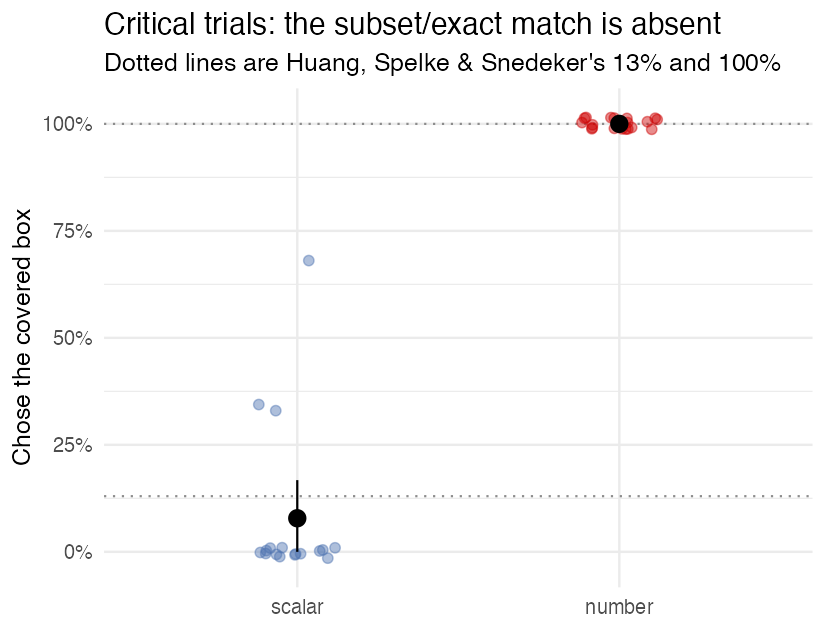
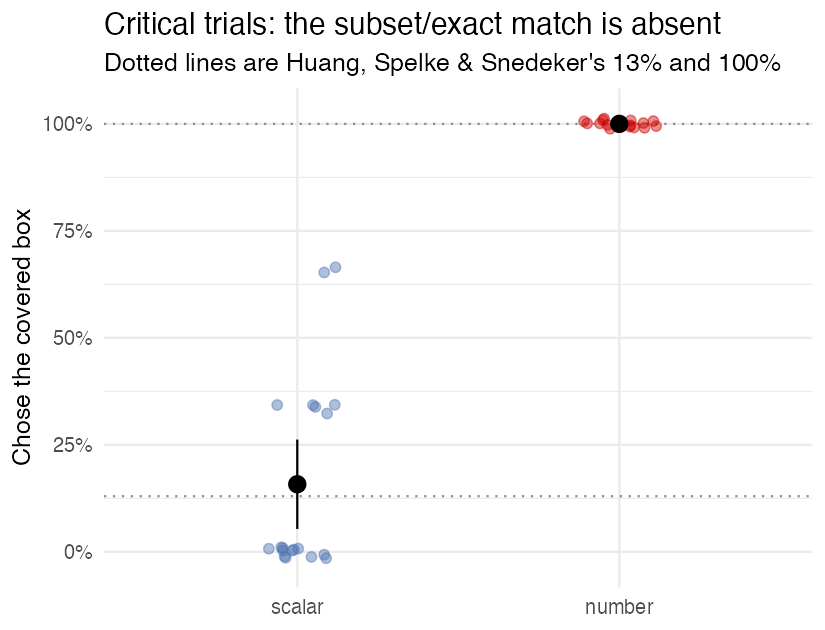
Add a probe trial: is the covered box still a live option?
Elizabeth noticed that a scalar participant who accepts "all" as a match
for "some" never needs the covered box again after familiarization. That is
true of Huang et al.'s design too: in none of their trial types is the
covered box unambiguously correct, since it is always the diagnostic
option. So a low covered-box rate could be extinction rather than
semantics, and nothing in the design distinguishes them.

Our familiarization makes this worse, not better: Huang et al. ran theirs
twice, eight trials with feedback on the first pass, where ours is a single
pass of four with none, because Qualtrics cannot easily give feedback.

The probe names an object in NEITHER open box, so the covered box is
correct whatever anyone's semantics. It comes after the critical trials, so
it cannot prime them. Pass means the low critical rate is real; fail means
the paradigm degraded, which is itself worth reporting. The analysis prints
the pass rate by term and warns below 80%.

Claude-Session: https://claude.ai/code/session_01W6W1Yt4uZhCBdA8GGktaX5

diff --git a/design.py b/design.py
@@ -22,6 +22,7 @@ and every prompt in the survey is unique.
 # establish already.
 N_CRITICAL = 3
 N_CONTROL  = 1          # per control trial type
+N_PROBE    = 1          # see below
 
 # nine objects, each with its plural for the number prompt
 OBJECTS = [("cookie","cookies"), ("apple","apples"), ("balloon","balloons"),
@@ -32,29 +33,41 @@ NAMES = [("Zip","Nub"), ("Mo","Pim"), ("Dax","Wug"), ("Tev","Lom"), ("Bix","Rud"
          ("Kel","Sap"), ("Jom","Nid"), ("Vex","Pol"), ("Gub","Tam")]
 
 # trial types, in presentation order: critical first, then the two controls
-SCALAR_TYPES = ["critical", "noneSome", "someAll"]
-NUMBER_TYPES = ["critical", "oneTwo",   "twoMore"]
+# "probe" is not in Huang et al. In no trial type of theirs is the covered box
+# unambiguously correct -- it is always the diagnostic option -- so the only
+# thing establishing that it is ever right is familiarization. A participant who
+# reads *some* as lower-bounded then never needs it again, and if it goes dead
+# for them, a low covered-box rate is extinction rather than semantics.
+#
+# The probe asks for an object that is in NEITHER open box, so the covered box
+# is correct whatever anyone's semantics. It sits AFTER the critical trials, so
+# it cannot prime them, and it turns the worry into a measurement: if scalar
+# participants pass the probe, their low critical rate is not extinction.
+SCALAR_TYPES = ["critical", "noneSome", "someAll", "probe"]
+NUMBER_TYPES = ["critical", "oneTwo",   "twoMore", "probe"]
 
 # which two open boxes each trial type shows (choice 1, choice 2)
 SCALAR_BOXES = {"critical": ("NONE","ALL"),   # no subset match -> covered box
                 "noneSome": ("NONE","SOME"),
-                "someAll":  ("SOME","ALL")}
+                "someAll":  ("SOME","ALL"),
+                "probe":    ("NONE","SOME")}  # of the WRONG object
 NUMBER_BOXES = {"critical": (1,"more"),        # no exact match -> covered box
                 "oneTwo":   (1,2),
-                "twoMore":  (2,"more")}
+                "twoMore":  (2,"more"),
+                "probe":    (1,"more")}        # of the WRONG object
 
 # what choices 1 and 2 mean, for choice-map.csv
 SCALAR_MEANING = {"critical": ("none","all"), "noneSome": ("none","match"),
-                  "someAll":  ("match","all")}
+                  "someAll":  ("match","all"), "probe": ("wrong","wrong")}
 NUMBER_MEANING = {"critical": ("one","more"), "oneTwo": ("one","match"),
-                  "twoMore":  ("match","more")}
+                  "twoMore":  ("match","more"), "probe": ("wrong","wrong")}
 
 MORE = [3, 5, 3, 5, 3, 5, 3, 5, 3]     # the "more than two" count, per set
 
 def _plan():
     """[(trial type, index within it)], critical first"""
     out=[]
-    for j,k in enumerate([N_CRITICAL, N_CONTROL, N_CONTROL]):
+    for j,k in enumerate([N_CRITICAL, N_CONTROL, N_CONTROL, N_PROBE]):
         out += [(j, n) for n in range(k)]
     return out
 
@@ -63,6 +76,8 @@ def scalar_trials():
         kind = SCALAR_TYPES[t]
         target, other = NAMES[i]
         _, plural = OBJECTS[i]
+        if kind == "probe":                       # ask for an absent object
+            plural = OBJECTS[(i+3) % len(OBJECTS)][1]
         yield dict(term="scalar", kind=kind, set=i+1,
                    prompt=f"Give me the box where {target} has some of the {plural}.",
                    boxes=[f"scalar_s{i+1}_{b}" for b in SCALAR_BOXES[kind]],
@@ -72,6 +87,8 @@ def number_trials():
     for i,(t,_) in enumerate(_plan()):
         kind = NUMBER_TYPES[t]
         _, plural = OBJECTS[i]
+        if kind == "probe":                       # ask for an absent object
+            plural = OBJECTS[(i+3) % len(OBJECTS)][1]
         counts = [MORE[i] if b == "more" else b for b in NUMBER_BOXES[kind]]
         yield dict(term="number", kind=kind, set=i+1,
                    prompt=f"Give me the box with two {plural}.",

diff --git a/README.md b/README.md
@@ -85,8 +85,8 @@ entirely — otherwise it is 22 questions × 3 choices of manual insertion.
   infer the design by comparing trial types; at class scale that would mean six
   cells of five. Critical-first preserves naïvety where it matters, at the cost
   of a fixed order. Say so in the report.
-- **Nine screens per participant**: four familiarization, then three critical
-  trials, then one of each control type. Each has its own object and characters,
+- **Ten screens per participant**: four familiarization, three critical trials,
+  one of each control type, and one probe (below). Each has its own object and characters,
   so every prompt in the survey is distinct.
 
   Why so few. Simulated power to detect the published 13%-vs-100% contrast is
@@ -107,7 +107,33 @@ entirely — otherwise it is 22 questions × 3 choices of manual insertion.
   assignment, and both the stimulus generator and the QSF builder import it, so
   they cannot drift.
 - **Familiarization**: four trials, each naming a **different** shape — red star,
-  green triangle, purple hexagon, orange square — visible twice, hidden twice. Huang et al. gave feedback on the first pass; Qualtrics
+  green triangle, purple hexagon, orange square — visible twice, hidden twice.
+  Huang et al. ran theirs **twice**, eight trials with feedback on the first
+  pass; this is a single pass with none, because Qualtrics cannot easily give
+  feedback. That matters — see the probe.
+
+### The probe, which is not in the original
+
+In **none** of Huang et al.'s trial types is the covered box unambiguously
+correct. It is always the diagnostic option. So the only thing establishing that
+it is ever the right answer is familiarization — and a participant who reads
+*some* as lower-bounded then never needs it again for the rest of the study.
+
+If the covered box goes dead for them, a low covered-box rate on critical trials
+is **extinction, not semantics**, and nothing in the original design can tell the
+two apart. Weakening familiarization to a single pass, as above, makes this more
+likely rather than less.
+
+The probe trial names an object that is in **neither** open box — boxes of
+flowers, a prompt about leaves — so the covered box is correct whatever anyone's
+semantics. It sits after the critical trials, so it cannot prime them, and it
+converts the worry into a measurement:
+
+- scalar participants **pass** the probe → their low critical rate is real
+- scalar participants **fail** it → the paradigm degraded, and that is the finding
+
+`coveredbox-rep.R` reports the pass rate by term and warns below 80%. Whether to
+exclude on it is a judgment the report should argue rather than assume. Huang et al. gave feedback on the first pass; Qualtrics
   cannot easily, so instead these serve as the exclusion criterion. Current rule
   is all four correct; 3/4 is defensible if recruitment is tight.
 
